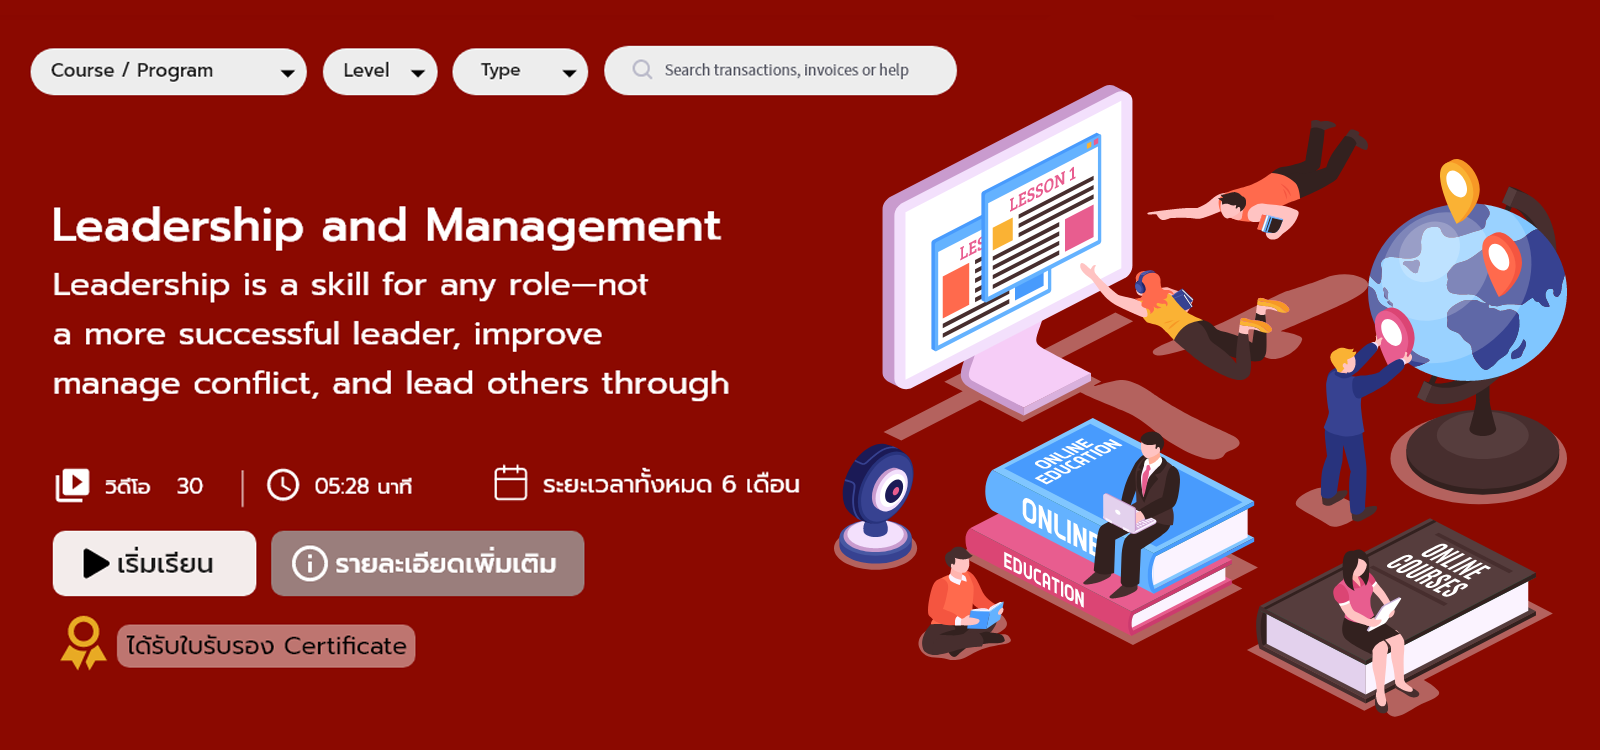
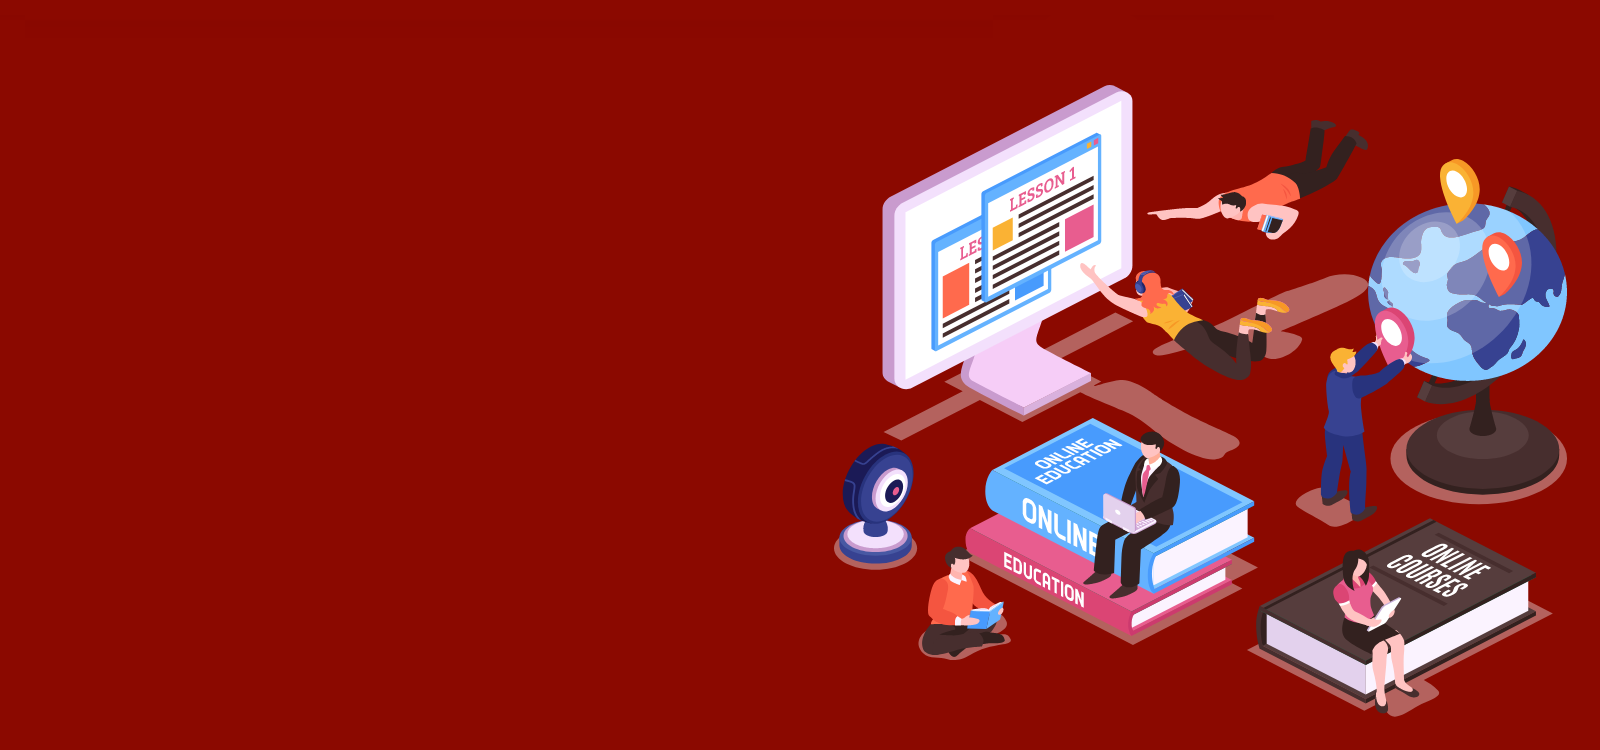
update index

diff --git a/local/resources/views/frontend/index.blade.php b/local/resources/views/frontend/index.blade.php
@@ -266,6 +266,104 @@
         a:hover {
             text-decoration: none;
         }
+        .containerbanner {
+  position: relative;
+  width: 100%;
+}
+
+/* Make the image responsive */
+.containerbanner img {
+  width: 100%;
+
+}
+
+/* Style the button and place it in the middle of the containerbanner/image */
+.containerbanner .btn {
+  position: absolute;
+  top: 75%;
+  left: 10%;
+  transform: translate(-10%, -10%);
+  -ms-transform: translate(-10%, -10%);
+  background-color: white;
+  color: black;
+  font-size: 26px;
+  padding: 12px 24px;
+  border: none;
+  cursor: pointer;
+  border-radius: 5px;
+}
+.containerbanner .buttontop {
+  position: absolute;
+  top: 10%;
+  left: 10%;
+  transform: translate(-10%, -10%);
+  -ms-transform: translate(-10%, -10%);
+  
+  color: black;
+  font-size: 24px;
+  
+}
+.containerbanner .text0 {
+  position: absolute;
+  top: 33%;
+  left: 10%;
+  transform: translate(-10%, -10%);
+  -ms-transform: translate(-10%, -10%);
+  
+  color: white;
+  font-size: 36px;
+  
+}
+.containerbanner .text1 {
+  position: absolute;
+  top: 40%;
+  left: 10%;
+  transform: translate(-10%, -10%);
+  -ms-transform: translate(-10%, -10%);
+  
+  color: white;
+  font-size: 26px;
+  
+}
+.containerbanner .text2 {
+  position: absolute;
+  top: 65%;
+  left: 10%;
+  transform: translate(-10%, -10%);
+  -ms-transform: translate(-10%, -10%);
+  
+  color: white;
+  font-size: 26px;
+  
+}
+.containerbanner .btnterm {
+  position: absolute;
+  top: 75%;
+  left: 20%;
+  transform: translate(-10%, -10%);
+  -ms-transform: translate(-10%, -10%);
+  background-color: grey;
+  color: white;
+  font-size: 26px;
+  padding: 12px 24px;
+  border: none;
+  cursor: pointer;
+  border-radius: 5px;
+}
+.containerbanner .cer {
+  position: absolute;
+  top: 85%;
+  left: 10%;
+  transform: translate(-10%, -10%);
+  -ms-transform: translate(-10%, -10%);
+
+ 
+  font-size: 26px;
+  padding: 12px 24px;
+
+}
+
+
     </style>
 
     </style>
@@ -347,32 +445,75 @@
 
     {{-- begin #banner --}}
 
-    <div id="index-banner" class="bg-white">
-        <div id="carouselExampleIndicators" class="carousel slide" data-ride="carousel">
-            <ol class="carousel-indicators">
-                @if ($home_gellery != '')
-                    <?php $active = 'active';
-                    $class = 'class="active"'; ?>
-                    @for ($i = 0; $i < count($home_gellery); $i++)
-                        <li data-target="#carouselExampleIndicators" data-slide-to="{{ $i }}"
-                            {{ $class }}></li>
-                    @endfor
-                @endif
-            </ol>
-            <div class="carousel-inner">
-                @if ($home_gellery != '')
-                    @foreach ($home_gellery as $data)
-                        <div class="carousel-item {{ $active }}">
+    <div id="index-banner" class="bg-white bg-banner containerbanner">
+      <img src="{{ asset('images/bannermockup.png') }}" class="d-block w-100">
+       <div class="buttontop">
+  <select style="background-color:whtie;
+  color: black;
+    border: none;
+  cursor: pointer;
+  border-radius: 30px;
+  font-size: 26px;
+  padding: 14px 35px;">
+    <option value="0">Course / Program</option>
+    <option value="1">Program1</option>
+    <option value="2">Program2</option>
+    <option value="3">Program3</option>
+    <option value="4">Program4</option>
+    
+  </select> &nbsp;&nbsp;&nbsp;
+  <select style="background-color:whtie;
+  color: black;
+    border: none;
+  cursor: pointer;
+  border-radius: 30px;
+  font-size: 26px;
+  padding: 14px 35px;">
+    <option value="0">Level</option>
+    <option value="1">Level1</option>
+    <option value="2">Level2</option>
+    <option value="3">Level3</option>
+    <option value="4">Level4</option>
+    
+  </select> &nbsp;&nbsp;&nbsp;
+  <select style="background-color:whtie;
+  color: black;
+    border: none;
+  cursor: pointer;
+  border-radius: 30px;
+  font-size: 26px;
+  padding: 14px 35px;">
+    <option value="0">Type</option>
+    <option value="1">Type1</option>
+    <option value="2">Type2</option>
+    <option value="3">Type3</option>
+    <option value="4">Type4</option>
+    
+  </select>&nbsp;&nbsp;&nbsp;
 
-                            <img src="{{ asset('images/bannermockup.png') }}" class="d-block w-100" alt="...">
+  <input type="text" placeholder="Search transactions,invoices or help" style="background-color:whtie;
+  color: black;
+    border: none;
+  cursor: pointer;
+  border-radius: 30px;
+  font-size: 26px;
+  padding: 14px 35px;">
+</div>
 
-                        </div>
-                        <?php $active = ''; ?>
-                    @endforeach
-                @endif
-            </div>
-        </div>
+       <b class="text0">Leadership and Management</b>
+        <div class="text1">Leadership is a skill for any role-not <br>a more successful leader, improve <br>manage conflict, and lead others through</div>
+          <div class="text2"><i class="fa fa-play-circle "> </i>   วิดีโอ 30  &nbsp;&nbsp;&nbsp;<i class="fa fa-clock"> </i>  05:28 นาที  &nbsp;&nbsp;&nbsp;<i class="fa fa-calendar"> </i>  ระยะเวลาทั้งหมด 6 เดือน</div>
+  <button class="btn"><i class="fa fa-play"> </i>   เริ่มเรียน</button>
+ <button class="btnterm"><i class="fa fa-exclamation-circle"> </i>   รายละเอียดเพิ่มเติม</button>
+<div class="cer"><img src="{{ asset('images/cer1.png') }}" style="width:10%;" > <button style="background-color: #FD6464;
+  color: black;
+    border: none;
+  cursor: pointer;
+  border-radius: 5px;
+  font-size: 26px;
+  padding: 5px 14px;">  ได้รับใบรับรอง Certificate</button>   </div>
     </div>
+    
     {{-- end #banner --}}
 
     {{-- begin #content 1 --}}
@@ -394,7 +535,7 @@
                             <div class="item">
                                 <h6 class="text-orange text-left">{{ $c->name }}</h6>
                                 <a href="{{ url('course_online_view/' . $c->id) }}">
-                                    {{-- <img src="{{ asset('images/1c.png') }}" class="mw-100 mb-2"> --}}
+                                    {{-- <img src="{{ asset('images/1c.png') }}"  style="width:220px;hight:210;" class="mw-100 mb-2"> --}}
                                     <img src="{{ asset('images/profile/' . $c->image) }}" class="mw-100 mb-2">
                                 </a>
 
@@ -442,7 +583,7 @@
                 <div class="hotclass_slide owl-carousel owl-theme">
                     <div class="item">
                         <a href="javascript:;">
-                            <img src="{{ asset('images/2c.png') }}" style=""class="mw-100 mb-3">
+                            <img src="{{ asset('images/2c.png') }}"  style="width:220px;hight:210;" class="mw-100 mb-3">
                         </a>
                         <h4 class="text-orange"></h4>
                     </div>
@@ -471,7 +612,7 @@
                     <a class="nav-link py-1 buttonblack" style="margin-right: 20px;margin-top: 20px;"
                         href="{{ url('register') }}">
                         <font style="color:grey">CRM Software</font>
-                    </a>
+                    </a
                     <a class="nav-link py-1 buttonblack"
                         style="margin-right: 20px;margin-top: 20px;"href="{{ url('register') }}">
                         <font style="color:grey">Customer Service</font>
@@ -541,7 +682,7 @@
                             <span class="numberHot"> <img
                                     data-src="assets/fontend/images/number_hot/number{{ $key + 1 }}.png"
                                     alt="" class="lazy"></span>
-                            <img src="{{ asset('images/profile/' . $c->image) }}" class="mw-100 mb-2">
+                            <img src="{{ asset('images/profile/' . $c->image) }}"  style="width:220px;hight:210;" class="mw-100 mb-2">
                         </a>
                         <span class="numberHot"></span>
 
@@ -554,21 +695,21 @@
                     <a href="{{ url('work') }}">
                         <span class="numberHot"> <img data-src="assets/fontend/images/number_hot/number2.png"
                                 alt="" class="lazy"></span>
-                        <img src="{{ asset('images/3c.png') }}" class="mw-100 mb-3">
+                        <img src="{{ asset('images/3c.png') }}"  style="width:220px;hight:210;"class="mw-100 mb-3">
                     </a>
                     <h4 class="text-orange"></h4>
                 </div> --}}
                 {{-- <div class="item">
                     <a href="{{ url('training') }}">
                           <span class="numberHot">   <img data-src="assets/fontend/images/number_hot/number3.png" alt="" class="lazy"></span>
-                        <img src="{{ asset('images/3c.png') }}" class="mw-100 mb-3">
+                        <img src="{{ asset('images/3c.png') }}" style="width:220px;hight:210;" class="mw-100 mb-3">
                     </a>
                     <h4 class="text-orange"></h4>
                 </div>
                 <div class="item">
                     <a href="{{ url('#') }}">
                           <span class="numberHot">   <img data-src="assets/fontend/images/number_hot/number4.png" alt="" class="lazy"></span>
-                        <img src="{{ asset('images/3c.png') }}" class="mw-100 mb-3">
+                        <img src="{{ asset('images/3c.png') }}"style="width:220px;hight:210;"  class="mw-100 mb-3">
                     </a>
                     <h4 class="text-orange"></h4>
                 </div>
@@ -576,7 +717,7 @@
 
                     <a href="{{ url('projectauction') }}">
                      <span class="numberHot">   <img data-src="assets/fontend/images/number_hot/number5.png" alt="" class="lazy"></span>
-                        <img src="{{ asset('images/3c.png') }}" class="mw-100 mb-3">
+                        <img src="{{ asset('images/3c.png') }}" style="width:220px;hight:210;" class="mw-100 mb-3">
                     </a>
                      <span class="numberHot"></span>
                     <h4 class="text-orange"></h4>
@@ -585,21 +726,21 @@
                 <div class="item">
                     <a href="{{ url('work') }}">
                           <span class="numberHot">   <img data-src="assets/fontend/images/number_hot/number6.png" alt="" class="lazy"></span>
-                        <img src="{{ asset('images/3c.png') }}" class="mw-100 mb-3">
+                        <img src="{{ asset('images/3c.png') }}" style="width:220px;hight:210;" class="mw-100 mb-3">
                     </a>
                     <h4 class="text-orange"></h4>
                 </div>
                 <div class="item">
                     <a href="{{ url('training') }}">
                           <span class="numberHot">   <img data-src="assets/fontend/images/number_hot/number7.png" alt="" class="lazy"></span>
-                        <img src="{{ asset('images/3c.png') }}" class="mw-100 mb-3">
+                        <img src="{{ asset('images/3c.png') }}"  style="width:220px;hight:210;" class="mw-100 mb-3">
                     </a>
                     <h4 class="text-orange"></h4>
                 </div>
                 <div class="item">
                     <a href="{{ url('#') }}">
                           <span class="numberHot">   <img data-src="assets/fontend/images/number_hot/number8.png" alt="" class="lazy"></span>
-                        <img src="{{ asset('images/3c.png') }}" class="mw-100 mb-3">
+                        <img src="{{ asset('images/3c.png') }}"  style="width:220px;hight:210;" class="mw-100 mb-3">
                     </a>
                     <h4 class="text-orange"></h4>
                 </div>
@@ -607,7 +748,7 @@
 
                     <a href="{{ url('projectauction') }}">
                      <span class="numberHot">   <img data-src="assets/fontend/images/number_hot/number9.png" alt="" class="lazy"></span>
-                        <img src="{{ asset('images/3c.png') }}" class="mw-100 mb-3">
+                        <img src="{{ asset('images/3c.png') }}" style="width:220px;hight:210;" class="mw-100 mb-3">
                     </a>
                      <span class="numberHot"></span>
                     <h4 class="text-orange"></h4>
@@ -616,7 +757,7 @@
                 <div class="item">
                     <a href="{{ url('work') }}">
                           <span class="numberHot">   <img data-src="assets/fontend/images/number_hot/number10.png" alt="" class="lazy"></span>
-                        <img src="{{ asset('images/3c.png') }}" class="mw-100 mb-3">
+                        <img src="{{ asset('images/3c.png') }}" style="width:220px;hight:210;" class="mw-100 mb-3">
                     </a>
                     <h4 class="text-orange"></h4>
                 </div> --}}

diff --git a/local/resources/views/layouts/navber.blade.php b/local/resources/views/layouts/navber.blade.php
@@ -4,6 +4,7 @@
 .vl {
   border-left: 2px solid gray;
   height: 30px;
+
 }
 .buttonred {
   background-color: while;
@@ -60,7 +61,7 @@
 {{-- begin z#navber--}}
     <nav class="navbar navbar-expand-md navbar-light bg-white">
         <h3 class="my-auto"><a class="navbar-brand" href="{{ url('index') }}">
-                <img src="{{ asset('images/logowutco.png') }}" class="img-fluid" alt="Responsive image"></a>
+                <img src="{{ asset('images/logowutco.png') }}" style="  width: 20%;" class="img-fluid" alt="Responsive image"></a>
         </h3>
 
                     <a class="nav-link py-1" href="{{ url('index') }}"><font style="color:black"> คอร์สการเรียนรู้</font></a>
